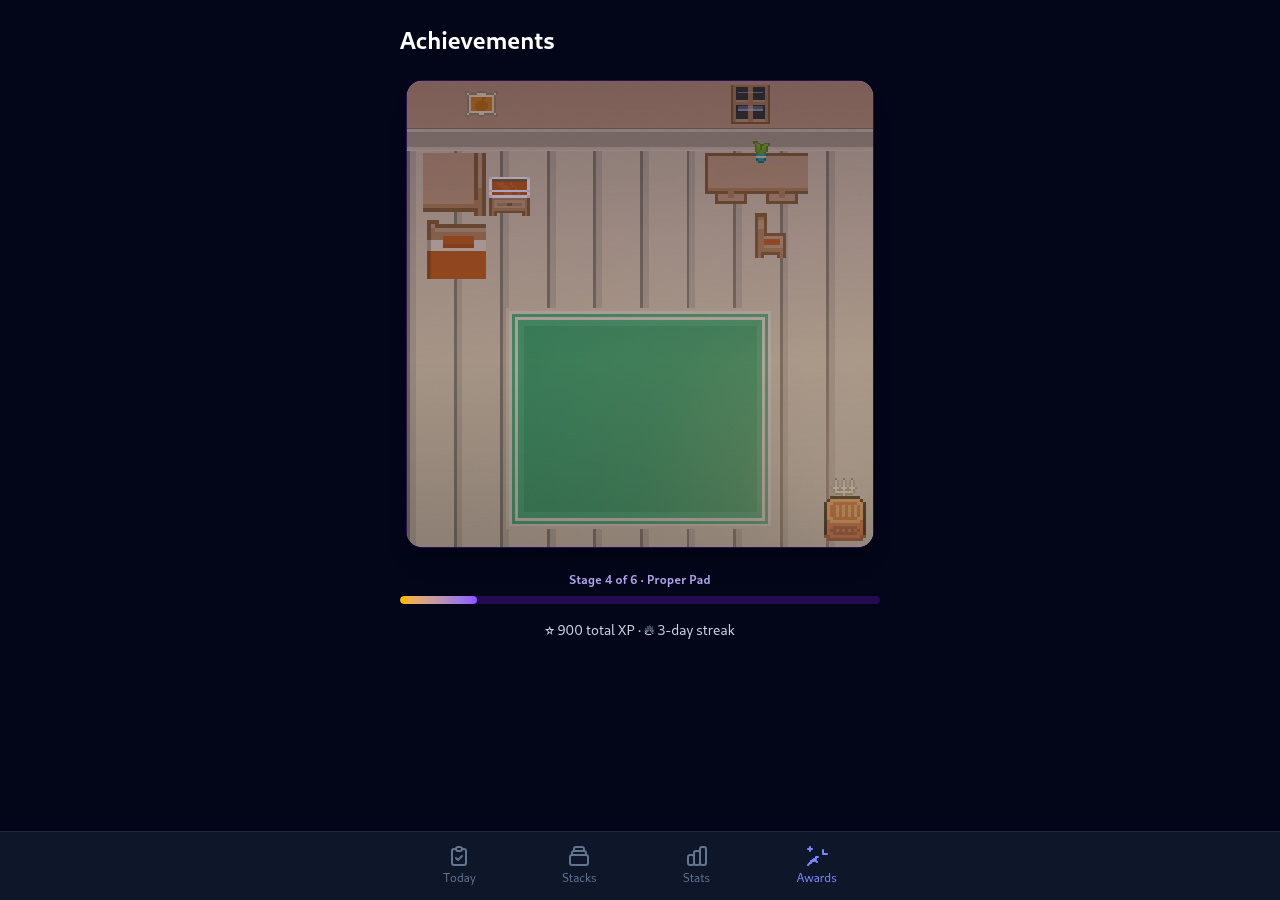
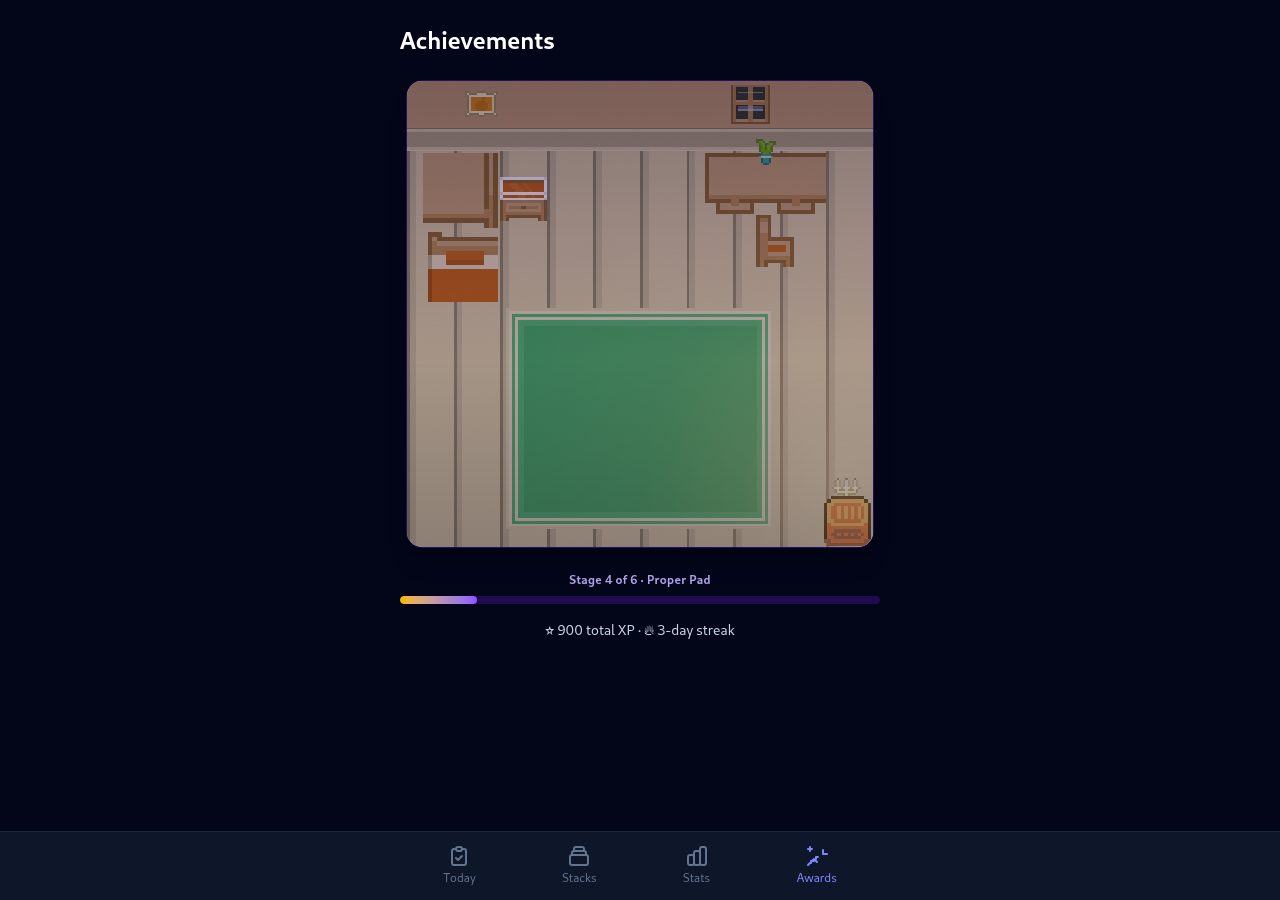
fix: one-piece floor bed and furniture scaled to room proportions
- green floor bed (blanket+bedroll) merged into a single 32x16 floorbed sprite rendered as one seamless item (w 2.2) - stage 1-2 counts drop by one in the screenshot script's table (tests unaffected: bounds/gating/rug/pet only)
- floor furniture scaled ~20 percent for the 10x10 room: bed 1.6x3.2, nightstand 1x1 at (2,2), desk 2.6x1.3, chair 1.3x1.3, sprout 0.75 on desk, crate 1x1.07, candelabra 0.75 on crate, lamp glow anchor re-derived
- unused blanket.png/bedroll.png removed after merge; credits and the screenshot script's stage-count table updated
- battery: tests, svelte-check 0/0, builds, e2e visual pass; both doc-stage renders verified in-room

Changed region(s): [[0.3125, 0.1556, 0.4375, 0.3422], [0.5312, 0.1556, 0.6562, 0.3111], [0.625, 0.5289, 0.6875, 0.6222]]

diff --git a/src/lib/room/layout.ts b/src/lib/room/layout.ts
@@ -7,8 +7,7 @@ import wallTile from '$lib/assets/room/wall.png';
 import wallBaseTile from '$lib/assets/room/wall-base.png';
 import floorTile from '$lib/assets/room/floor.png';
 import windowImg from '$lib/assets/room/window.png';
-import blanketImg from '$lib/assets/room/blanket.png';
-import bedrollImg from '$lib/assets/room/bedroll.png';
+import floorbedImg from '$lib/assets/room/floorbed.png';
 import crateImg from '$lib/assets/room/crate.png';
 import lampImg from '$lib/assets/room/lamp.png';
 import deskImg from '$lib/assets/room/desk.png';
@@ -42,7 +41,7 @@ export const TILE_URLS = {
 } as const;
 
 /** Where the lamp (and its glow) stands — atop the storage crate. */
-export const LAMP_SPOT = { x: 9.4, y: 8.7 } as const;
+export const LAMP_SPOT = { x: 9.45, y: 8.7 } as const;
 
 /** The window (source of the night rain layer), in tile units. */
 export const WINDOW_SPOT = { x: 6.95, y: 0.08, w: 0.85, h: 0.85 } as const;
@@ -78,15 +77,14 @@ export const ROOM_ITEMS: RoomItem[] = [
 	{ id: 'bookshelf-2', src: bookshelf2, x: 5.05, y: 0.62, w: 0.85, h: 0.85, stage: 5, alt: '' },
 	{ id: 'bookshelf-3', src: bookshelf3, x: 5.9, y: 0.62, w: 0.85, h: 0.85, stage: 5, alt: '' },
 	{ id: 'poster', src: posterImg, x: 1.25, y: 0.12, w: 0.7, h: 0.7, stage: 3, alt: 'Framed poster on the wall' },
-	{ id: 'lamp', src: lampImg, x: 9.05, y: 8.35, w: 0.7, h: 0.7, stage: 1, alt: 'Lit candelabra standing on the storage crate' },
-	{ id: 'desk', src: deskImg, x: 6.4, y: 1.55, w: 2.2, h: 1.1, stage: 2, alt: 'Small wooden desk against the wall' },
-	{ id: 'chair', src: chairImg, x: 7.25, y: 2.7, w: 1.1, h: 1.1, stage: 2, alt: 'Wooden chair tucked at the desk' },
-	{ id: 'sprout', src: sproutImg, x: 7.3, y: 1.15, w: 0.65, h: 0.65, stage: 3, alt: 'Little potted sprout on the desk' },
-	{ id: 'bed', src: bedImg, x: 0.35, y: 1.55, w: 1.35, h: 2.7, stage: 4, alt: 'Proper bed with an orange blanket against the wall' },
-	{ id: 'nightstand', src: nightstandImg, x: 1.75, y: 2, w: 0.9, h: 0.9, stage: 4, alt: 'Small bedside cabinet next to the bed' },
-	{ id: 'blanket', src: blanketImg, x: 0.45, y: 2.9, w: 0.9, h: 0.9, stage: 1, until: 4, alt: 'Folded blanket with a pillow on the floor' },
-	{ id: 'bedroll', src: bedrollImg, x: 1.35, y: 2.95, w: 0.9, h: 0.9, stage: 1, until: 4, alt: 'Rolled-up sleeping mat on the floor' },
-	{ id: 'crate', src: crateImg, x: 8.95, y: 8.9, w: 0.9, h: 0.97, stage: 1, alt: 'Simple wooden storage box' },
+	{ id: 'lamp', src: lampImg, x: 9.07, y: 8.32, w: 0.75, h: 0.75, stage: 1, alt: 'Lit candelabra standing on the storage crate' },
+	{ id: 'desk', src: deskImg, x: 6.4, y: 1.55, w: 2.6, h: 1.3, stage: 2, alt: 'Small wooden desk against the wall' },
+	{ id: 'chair', src: chairImg, x: 7.25, y: 2.7, w: 1.3, h: 1.3, stage: 2, alt: 'Wooden chair tucked at the desk' },
+	{ id: 'sprout', src: sproutImg, x: 7.35, y: 1.1, w: 0.75, h: 0.75, stage: 3, alt: 'Little potted sprout on the desk' },
+	{ id: 'bed', src: bedImg, x: 0.35, y: 1.55, w: 1.6, h: 3.2, stage: 4, alt: 'Proper bed with an orange blanket against the wall' },
+	{ id: 'nightstand', src: nightstandImg, x: 2, y: 2, w: 1, h: 1, stage: 4, alt: 'Small bedside cabinet next to the bed' },
+	{ id: 'floorbed', src: floorbedImg, x: 0.45, y: 2.9, w: 2.2, h: 1.1, stage: 1, until: 4, alt: 'Floor bed: a rolled-out blanket over a sleeping mat' },
+	{ id: 'crate', src: crateImg, x: 8.95, y: 8.9, w: 1, h: 1.07, stage: 1, alt: 'Simple wooden storage box' },
 	{ id: 'rug-tl', src: rugTl, x: 2, y: 4.75, w: 1, h: 1, stage: 4, alt: '' },
 	{ id: 'rug-t-a', src: rugT, x: 3, y: 4.75, w: 1, h: 1, stage: 4, alt: '' },
 	{ id: 'rug-t-b', src: rugT, x: 4, y: 4.75, w: 1, h: 1, stage: 4, alt: '' },

diff --git a/src/lib/assets/room/CREDITS.md b/src/lib/assets/room/CREDITS.md
@@ -43,8 +43,8 @@ Credit (Kenney or www.kenney.nl) would be nice but is not mandatory.
 - Files used (sliced from `Spritesheet/roguelikeSheet_transparent.png`,
   16px tiles with a 1px margin between tiles): `floor.png` (row 15, col 17),
   `wall.png` (row 22, col 39), `wall-base.png` (row 12, col 14),
-  `window.png` (row 3, col 44), `blanket.png` (row 2, col 12),
-  `bedroll.png` (row 2, col 13),
+  `window.png` (row 3, col 44), `floorbed.png` (rows 2, cols 12-13
+  merged into one 32x16 floor bed),
   `rug-tl.png` (row 16, col 10), `rug-t.png` (row 16, col 11),
   `rug-tr.png` (row 16, col 12), `rug-l.png` (row 17, col 10),
   `rug-c.png` (row 17, col 11), `rug-r.png` (row 17, col 12),
